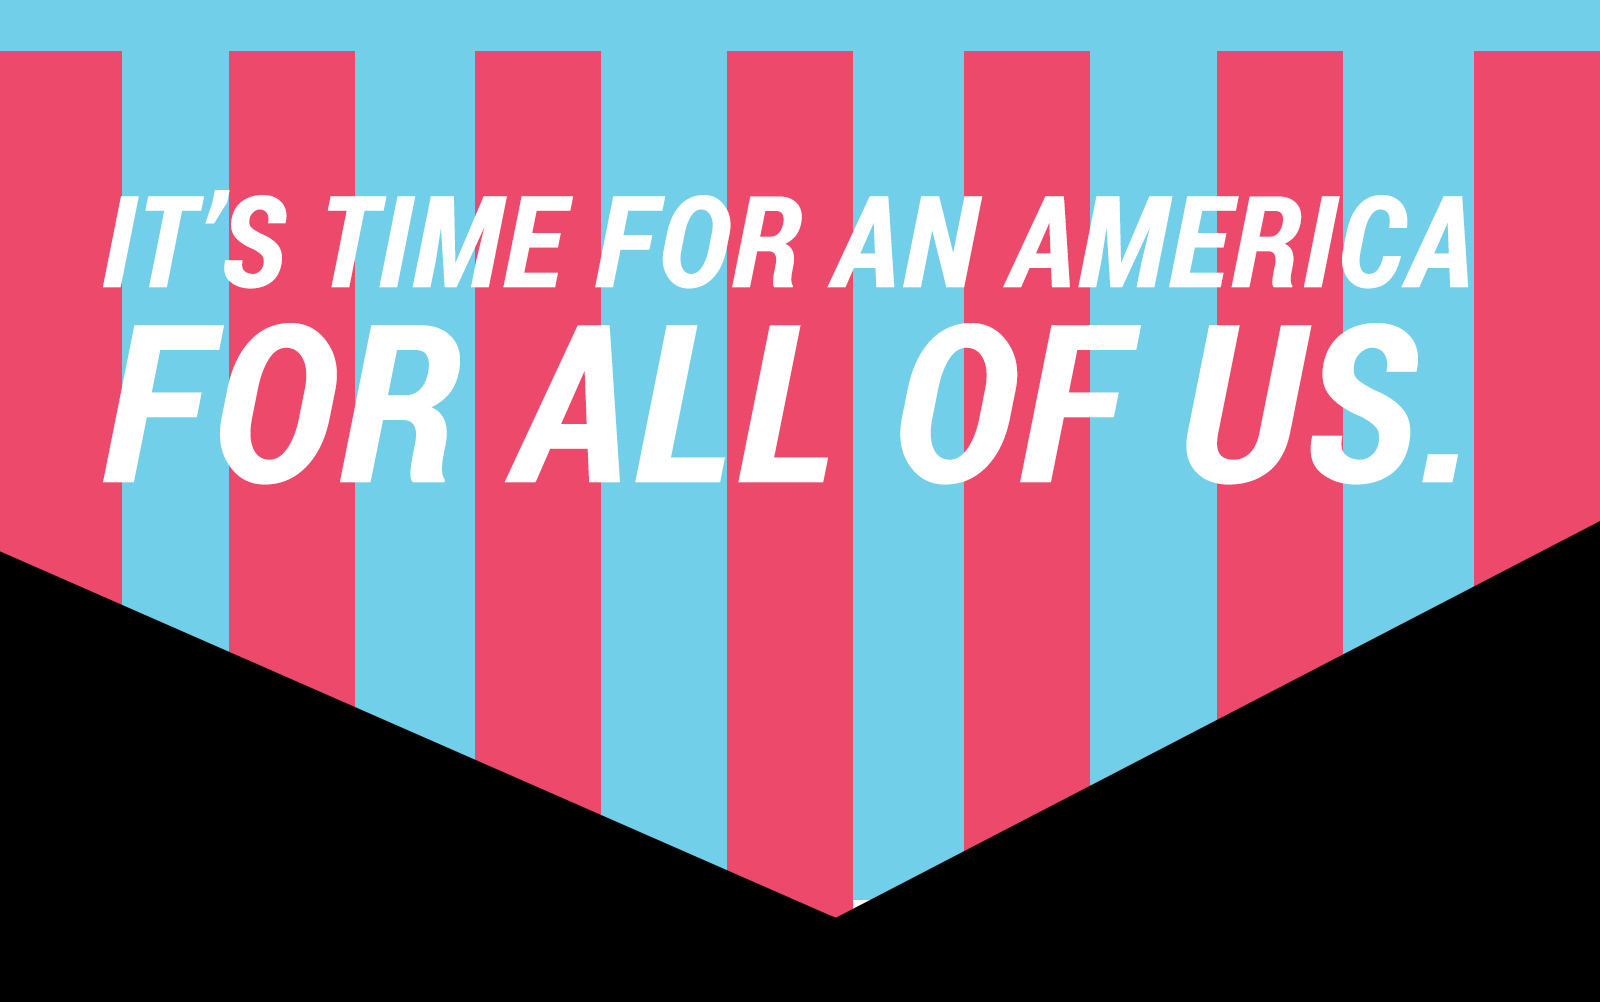
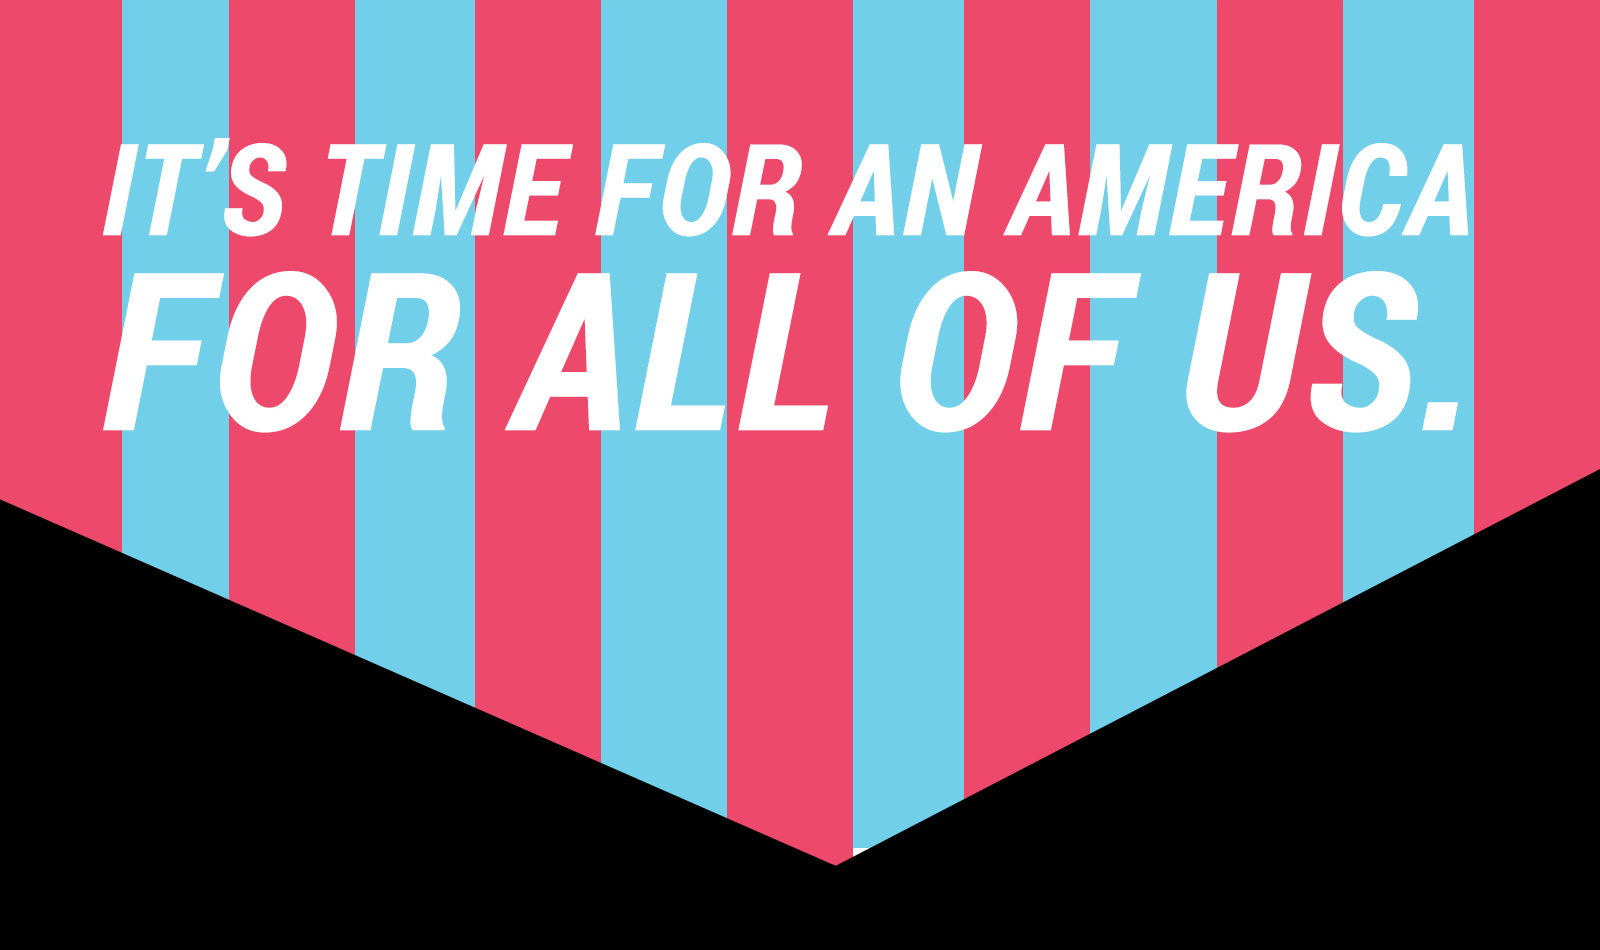
updates

diff --git a/index.html b/index.html
@@ -246,24 +246,141 @@
             </p>
         </div>
 
-        <div class="theme pink">
+    </div>
+
+    <div class="theme pink">
+
+        <h1>
+            Conservatives advocate a “colorblind” approach to race
+        </h1>
+
+        <h3>
+            One of the first moves to prevent integration was pushing the idea that everyone should be color-blind. One of the first politicians to push for such an approach was Barry Goldwater. In the 1960s, shortly after Brown vs. Board of Ed, he argued that because the Constitution is color-blind,  integration is equally bad as segregation. 
+        </h3>
+        <h3>
+            It took years for such an approach to take hold — when it first reached the Supreme Court, it was summarily rejected because it was clearly an attempt to avoid integration. President Nixon, however, appointed four new justices to the Supreme Court, paving the way for a color-blind approach to become law and setting the precedent that racism is exclusively individual, rather than structural. The result was a systematic dismantling of all government programs that sought to address any of the harms of slavery or Jim Crow — just 15 years after the Civil Rights Act.
+        </h3>
+        <h3>
+            A major part of the pretense of color-blindness was shifting toward discussing ethnicity rather than race. People could pretend their racism was merely about cultural difference — something “acceptable” to talk about.
+        </h3>
+
+    </div>
+
+    <div class="timeline blue">
+
+        <div class="event borderLeft">
+            <div class="eventOuterDot dotLeft"></div>
+            
+            <h2>
+                1980
+            </h2>
 
             <h1>
-                Conservative notion of “colorblindness”
+                Ronald Reagan Elected as President
             </h1>
 
-            <h3>
-                One of the first moves to prevent integration was pushing the idea that everyone should be color-blind. One of the first politicians to push for such an approach was Barry Goldwater. In the 1960s, shortly after Brown vs. Board of Ed, he argued that because the Constitution is color-blind,  integration is equally bad as segregation. 
-            </h3>
-            <h3>
-                It took years for such an approach to take hold — when it first reached the Supreme Court, it was summarily rejected because it was clearly an attempt to avoid integration. President Nixon, however, appointed four new justices to the Supreme Court, paving the way for a color-blind approach to become law and setting the precedent that racism is exclusively individual, rather than structural. The result was a systematic dismantling of all government programs that sought to address any of the harms of slavery or Jim Crow — just 15 years after the Civil Rights Act.
-            </h3>
-            <h3>
-                A major part of the pretense of color-blindness was shifting toward discussing ethnicity rather than race. People could pretend their racism was merely about cultural difference — something “acceptable” to talk about.
-            </h3>
+            <p>
+                DETAILS NEED TO BE ADDED, PARTICULARLY ABOUT AFFIRMATIVE ACTION / WELFARE
+            </p>
 
         </div>
 
+        <div class="quoteWrapper borderLeft borderBottom noTopPadding">
+
+            <div class="quote quoteLeft">
+
+                <h3>
+                    Something about welfare and/or affirmative action.
+                </h3>
+            </div>
+
+            <div class="clear"></div>
+
+        </div>
+
+        <div class="quoteWrapper borderRight">
+
+            <div class="quote quoteRight" style="padding-bottom:20px;">
+
+                <h3>
+                    “I don’t want everybody to vote."
+                </h3>
+
+                <div class="videoContainer">
+                    <iframe src="https://www.youtube.com/embed/pN7IB-d7Hfw" frameborder="0" allowfullscreen class="video"></iframe>
+                </div>
+
+            </div>
+
+            <div class="clear"></div>
+
+        </div>
+
+        <div class="event borderRight borderBottom">
+            <div class="eventOuterDot dotRight"></div>
+            
+            <h2>
+                1988
+            </h2>
+
+            <h1>
+                George H.W. Bush runs now-infamous racist Willie Horton ad — and surges in the polls
+            </h1>
+
+            <p>
+                In 1988, President Bush was behind in the polls — until he listened to the advice of Lee Atwater and began running an advertisement based on a black man named Willie Horton, who was serving a life sentence for murder. The ad nnarrated the case with his mug shot on screen and flashing words like, “kidnapping,” “stabbing,” and “raping” on the screen — before concluding with, “Weekend prison passes: Dukakis on crime.” The ad didn't talk directly about race; instead it used Horton’s image and the apprehension around law and order that had been built since the Nixon campaign. The ad allowed the Bush campaign could benefit from stoking racialized fears and antagonism without directly talking about race.
+            </p>
+
+        </div>
+
+        <div class="event borderLeft">
+            <div class="eventOuterDot dotLeft"></div>
+
+            <h2 >
+                1996
+            </h2>
+
+            <h1>
+                Rupert Murdoch founds Fox News
+            </h1>
+
+            <p>
+                In 1996, media magnate Rupert Murdoch launched Fox News, a conservative news network designed to put forward the news with as conservative a slant as possible. At the helm was Roger Ailes, the man responsible for Richard Nixon’s media strategy. Unsurprisingly, Fox has since engaged in incessant racially charged attacks, recycling the coded language that stoked the same racial resentments that the Republican party had mobilized since the Southern Strategy. 
+            </p>
+
+            <p>
+                It's worth noting that Fox News is not the first conservative television news network. Within a couple of years of the Powell memo, Joseph Coors (the ultra-conservative head of Coors beer) created a television network called Television News Incorporated. And just like with Fox News, Roger Ailes was on board, serving as the network’s news director. 
+            </p>
+        </div>
+
+    </div>
+
+    <div class="timeline black">
+
+        <div class="event borderLeft">
+
+            <h1 class="pinkText">
+                At this point it should be clear — Donald Trump is the outcome of a Republican strategy that has stoked racialized fears for decades.  
+            </h1>
+
+            <h3>
+                Racism hurts all of us. The reactionary economic agenda made possible by dog-whistle politics is responsible for devaluing Black lives and for white families’ declining fortunes. When conservatives vilify modest reforms, from healthcare to free college, as handouts to the undeserving, the social contract is shredded for everyone. When racism wins, everyone loses.
+            </h3>
+            <h3>
+                We must construct a new idea of America — one grounded not in hatred and greed, but in community and care. We must fight to make real the promise of the America we have not yet achieved: freedom and justice for all.
+            </h3>
+        </div>
+
+    </div>
+
+    <div class="bottomFlag">
+
+        <img src="/images/AllOfUs.jpg">
+
+    </div>
+
+    <div class="bottom">
+    TAKE ACTION!
     </div>
 
 </body>

diff --git a/css/gopcausedtrump.css b/css/gopcausedtrump.css
@@ -246,6 +246,20 @@
 		margin-left:200px;
 	}
 
+	.videoContainer {
+	    position: relative;
+	    width: 100%;
+	    height: 0;
+	    padding-bottom: 56.25%;
+	}
+	.video {
+	    position: absolute;
+	    top: 0;
+	    left: 0;
+	    width: 100%;
+	    height: 100%;
+	}
+
 
 
 /* TIMELINE WRIT LARGE */
@@ -298,7 +312,15 @@
 
 /* END OF TIMELINE */
 
+	.bottomFlag {
+		background-image: url("../images/AllOfUs.jpg");
+        background-size:100%;
+        background-repeat:no-repeat;
+	}
 
+	.bottom {
+
+	}
 
 /* MODALS */
 
